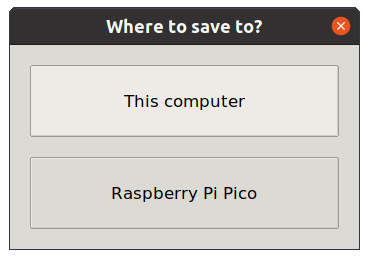
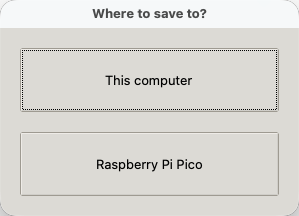
Update LED Firefly setup for Thonny 5

diff --git a/en/step_2.md b/en/step_2.md
@@ -11,115 +11,153 @@ Connect your Raspberry Pi Pico and set up MicroPython.
 
 --- task ---
 
-**Connect** the small end of your USB cable to the Raspberry Pi Pico.
+Connect the small end of your data USB cable to the Raspberry Pi Pico, then open Thonny on your computer.
 
-![An image of a Raspberry Pi Pico connected to the small end of a USB cable.](images/pico-top-plug.png)
+![A Raspberry Pi Pico connected to a micro USB cable.](images/pico-top-plug.png)
+
+--- /task ---
+
+The screenshots show Thonny 5 on macOS. Your window may look slightly different on another operating system.
+
+If your Pico already runs MicroPython and Thonny shows a `>>>` prompt when connected to it, skip the firmware installation and continue to the `picozero` instructions below.
+
+--- task ---
+
+To install MicroPython, unplug the Raspberry Pi Pico from your computer. Hold down the **BOOTSEL** button on the Pico while you plug it back in using a **data** USB cable, then release the button.
+
+The Pico appears as a removable drive. On a Raspberry Pi Pico or Pico W, this drive is called **RPI-RP2**.
 
 --- /task ---
 
 --- task ---
 
-**Connect** the other end to your computer, laptop, or Raspberry Pi.
+In Thonny, click the interpreter selector in the bottom-right corner of the window, then choose **Install MicroPython…**.
 
-![An image of a Raspberry Pi Pico connected to a laptop with a USB cable.](images/plug-in-pico.png)
+![Thonny's interpreter menu showing Install MicroPython and Configure interpreter.](images/thonny-interpreter-menu.png)
 
---- /task ---
-
-
---- task ---
-
-Open the Thonny editor. 
+If **Install MicroPython…** is not listed, check that the Pico is connected in BOOTSEL mode and that your computer can see its removable drive.
 
 --- /task ---
 
 --- task ---
 
-Look at the text in the bottom-right corner of the Thonny editor. It will show you the version of Python that is being used.
+In the **Install or update MicroPython (UF2)** window:
 
-If it does not say "MicroPython (Raspberry Pi Pico)", then click on the text and select "MicroPython (Raspberry Pi Pico)".
++ Select the Pico's drive in **Target volume**.
++ Select **RP2** in **MicroPython family**.
++ Choose the **variant** that matches the model printed on your board. For example, choose **Raspberry Pi · Pico / Pico H** for an original Pico, or **Raspberry Pi · Pico W / Pico WH** for a Pico W.
++ Select the latest stable numbered **version**. Avoid preview versions for this project.
 
-If you have never used MicroPython on your Raspberry Pi Pico, then Thonny will prompt you to add the MicroPython firmware. Click **Install MicroPython**. 
+![Thonny's MicroPython installer with the Pico target volume, firmware family, board variant, and version selected.](images/thonny-install-micropython-pico.png)
+
+Click **Install** and wait for the installation to finish. Keep the Pico connected while the firmware is being written.
 
 --- /task ---
 
 --- task ---
 
-**Debug:** 
+Close the installer when it has finished. The Pico's removable drive disappears as it restarts with MicroPython.
+
+Click the interpreter selector again and choose the **MicroPython (Raspberry Pi Pico)** entry for your connected board. The port name depends on your computer.
+
+If the board is not listed yet, unplug it and reconnect it **without holding BOOTSEL**, then try again. Click the red **Stop/Restart backend** button to reconnect if needed.
+
+The Shell should show a MicroPython message and a `>>>` prompt.
+
+![The Thonny Shell connected to a Raspberry Pi Pico running MicroPython.](images/repl-connected.png)
+
+--- /task ---
+
+--- task ---
+
+**Debug:**
 
 --- collapse ---
 ---
-title: There was an error installing the firmware
+title: The Pico's drive does not appear
 ---
 
-If you see an error message during the install then:
-+ Disconnect your Raspberry Pi Pico
-+ Reconnect your Raspberry Pi Pico
-+ Try to install the firmware again (you might need to press the stop button first)
+Unplug the Pico, then hold **BOOTSEL** while reconnecting it. Release the button after connecting.
 
-![A screenshot of an error message showing that the firmware cannot install correctly.](images/pico-firmware-error.PNG)
+Use a USB cable that can transfer data. A charging-only cable will power the Pico but will not let your computer communicate with it. Try another data cable or USB port.
+
+If macOS asks Thonny for access to removable volumes, allow access so it can find the Pico's drive.
 
 --- /collapse ---
 
 --- collapse ---
 ---
-title: I don't know if the firmware is installed and cannot connect to my Pico
+title: Firmware installation fails
 ---
 
-Make sure your Raspberry Pi Pico is connected to your computer with a micro USB cable. Click on the list in the bottom-right corner of your Thonny window. A pop-up menu will appear, which lists the available interpreters. 
+Check your internet connection: Thonny downloads the available firmware versions and the selected firmware.
 
-![A pop-up menu that shows an option saying configure interpreter.](images/no-pico-interpreter.png) 
-
-If you cannot see the Pico in the list (like in the picture), you will need to reconnect your Raspberry Pi Pico while holding the BOOTSEL button to mount it as a storage volume, and reinstall the firmware by following the instructions in the section above.
+Check that the selected target volume belongs to your Pico and that the variant matches your board. Reconnect the Pico while holding **BOOTSEL**, then try the installation again.
 
 --- /collapse ---
 
 --- collapse ---
 ---
-title: Firmware is installed but I still cannot connect to my Pico
+title: Firmware is installed but Thonny cannot connect
 ---
 
-You may be using the wrong kind of micro USB cable. Your current micro USB cable may be damaged, or designed only to carry power to devices and cannot transfer data. Try swapping your cable if nothing else has worked. 
+Reconnect the Pico **without holding BOOTSEL**. Choose its **MicroPython (Raspberry Pi Pico)** entry in Thonny's interpreter selector, then click **Stop/Restart backend**.
 
-If your Pico still won't connect after trying all these things, it may **itself** be damaged and unable to connect. 
+If needed, choose **Run** > **Configure interpreter…**, select **MicroPython (Raspberry Pi Pico)**, and check the port for your connected board. Close any other program that might be using that port.
+
+Check your data USB cable and try another USB port before reinstalling firmware.
 
 --- /collapse ---
 
-You can find further information in the [Raspberry Pi Pico Guide](https://projects.raspberrypi.org/en/projects/introduction-to-the-pico){:target="_blank"}.
-
 --- /task ---
 
-`picozero` is a MicroPython library for beginners to the Raspberry Pi Pico. 
+`picozero` is a MicroPython library for beginners to the Raspberry Pi Pico.
 
 --- task ---
 
-To complete the projects in this path, you will need to install the `picozero` library as a Thonny package.
+Check that Thonny is connected to your Pico: the interpreter selector at the bottom-right should show **MicroPython (Raspberry Pi Pico)**.
 
-In Thonny, choose **Tools** > **Manage packages**.
+Choose **Tools** > **Manage packages…**. The window title should say **Manage packages for Raspberry Pi Pico**, so the library will be installed on your board.
 
-![The Thonny Tools menu with Manage packages highlighted.](images/thonny-manage-packages.jpg)
-
---- /task ---
-
---- task ---
-
-In the pop-up 'Manage packages for Raspberry Pi Pico' window, type `picozero` and click **Search on PyPi**.
-
-![Thonny plugins search results showing picozero.](images/thonny-packages-picozero.jpg)
+![Thonny's Tools menu showing Manage packages.](images/thonny-manage-packages.png)
 
 --- /task ---
 
 --- task ---
 
-Click on **picozero** in the search results. 
+Type `picozero` in the search box and click **Search micropython-lib and PyPI**.
 
-Click on **Install**.
-
-![The picozero information with 'Install' button highlighted.](images/thonny-install-package.jpg)
-
-When installation has completed, close the package window, then exit and reopen Thonny.
+![Thonny's package manager showing the picozero search result.](images/thonny-packages-picozero.png)
 
 --- /task ---
 
-If you have difficulties installing the `picozero` library in Thonny, you can download the library file and save it to your Raspberry Pi Pico. 
+--- task ---
 
-[[[picozero-offline-install]]]
+Select **picozero @ PyPI** in the search results, then click **Install**. If an older version is already installed, click **Upgrade** instead. If the installed version matches the latest stable version, you can continue.
+
+Wait for the installation to finish. The package information will show the installed version and its location on the Pico, `/lib`.
+
+![Thonny's package manager showing picozero installed on the Raspberry Pi Pico.](images/thonny-picozero-installed.png)
+
+Close the package manager, then click the red **Stop/Restart backend** button in Thonny before running your code.
+
+--- /task ---
+
+If you have difficulties installing the `picozero` library in Thonny, you can download the library file and save it to your Raspberry Pi Pico.
+
+--- collapse ---
+---
+title: Install picozero without the package manager
+---
+
+On a computer with internet access, open the [picozero library file](https://raw.githubusercontent.com/RaspberryPiFoundation/picozero/master/picozero/picozero.py){:target="_blank"} and save it as `picozero.py`. If needed, transfer the file to your programming computer using a USB drive.
+
+Connect the Pico and select its **MicroPython (Raspberry Pi Pico)** interpreter in Thonny.
+
+Choose **File** > **Open…**, then **This computer**, and open the downloaded `picozero.py` file. Choose **File** > **Save as…**, then **Raspberry Pi Pico**. In the Pico's top-level folder, enter `picozero.py` in **File name** and click **OK**.
+
+![Thonny's Save to Raspberry Pi Pico dialog showing the File name box.](images/thonny-save-to-pico.png)
+
+Click **Stop/Restart backend** before running your project code. Keep your own project in a separate file, such as `firefly.py` or `pico_led.py`.
+
+--- /collapse ---

diff --git a/en/step_3.md b/en/step_3.md
@@ -51,17 +51,17 @@ pico_led.on()
 
 --- task ---
 
-Choose **File**->**Save As**. Thonny will ask whether you want to save the file on **This computer** or the **Raspberry Pi Pico**. Choose **This computer** to save your code to your computer.  
+Choose **File** > **Save as…**. Thonny will ask whether you want to save the file on **This computer** or the **Raspberry Pi Pico**. Choose **This computer** to save your code to your computer.
 
 Choose a location on your computer such as your 'Documents' folder. Name your file `firefly.py`.
 
-![A screenshot of a window with two options. The user can either select 'This computer' or 'Raspberry Pi Pico' device. 'This computer' is highlighted.](images/save-on-computer.png)
+![Thonny's save destination dialog with This computer and Raspberry Pi Pico options.](images/save-on-computer.png)
 
 --- /task ---
 
 --- task ---
 
-**Test:** Thonny has a green play button with a small white triangle inside it. Pressing this button allows you to run your code. 
+**Test:** Click the green **Run current script** play button to run your code on the Pico.
 
 + Press the play button  
 
@@ -84,7 +84,7 @@ If you don't see a green play button (it is faded):
 + Click the red **STOP** button
 + Check that your Raspberry Pi Pico is connected to your computer with a USB cable
 + Click on **MicroPython (Raspberry Pi Pico)** at the bottom-right corner of Thonny to reconnect
-+ Unplug your USB cable and then plug it back in
++ Unplug your USB cable and then plug it back in without holding **BOOTSEL**
 
 --- /collapse ---
 
@@ -134,7 +134,7 @@ pico_led.off()
 
 --- task ---
 
-**Test:** Click the green **play** button. Thonny will save the file on your Raspberry Pi Pico and then run the new code. 
+**Test:** Click the green **play** button. Thonny will save changes to the file on your computer and run the code on your Raspberry Pi Pico. This does not save a copy of the file on the Pico.
 
 Check that the LED turns on and then goes off again. The LED will only light for one second so make sure you are watching.
 

diff --git a/en/step_1.md b/en/step_1.md
@@ -67,8 +67,23 @@ You can [prepare your LED](https://projects.raspberrypi.org/en/projects/introduc
 
 + Thonny – this project can be completed using the Thonny Python editor, which can be installed on a Linux, Windows, or Mac computer
 
-[[[thonny-install]]]
+Visit [thonny.org](https://thonny.org/){:target="_blank"} and choose the latest stable download for your operating system. On macOS, choose the installer for your Mac's processor: Apple Silicon (M1, M2, and newer) or Intel. On Linux, follow the installation instructions on the website.
 
-[[[change-theme-thonny]]]
+Run the installer and open Thonny. If you already have Thonny, you can install the latest version to update it.
+
+On Raspberry Pi OS, Thonny may already be installed. Use the system's software updater to update it; the version supplied by your operating system may differ from the website's latest release.
+
+--- collapse ---
+---
+title: Make the text easier to read
+---
+
+Choose **Tools** > **Options…**, then select **Theme & Font**. Adjust the editor and Shell fonts, their sizes, or the colours to suit you. The preview shows how your choices will look.
+
+![Thonny's Theme & Font settings with font, size, and colour choices.](images/thonny-theme-font.png)
+
+Click **OK** when you are finished. Some style changes take effect after restarting Thonny.
+
+--- /collapse ---
 
 ![](http://code.org/api/hour/begin_rp_ledfirefly.png)

diff --git a/en/step_5.md b/en/step_5.md
@@ -19,7 +19,7 @@ Change your code to make the firefly blink on and off in a `while True:` loop. T
 
 Make sure that the code on lines 11–14 are indented. 
 
-**Tip:** In Thonny you can indent code by going to the beginning of the line and tapping the <kbd>Tab</kbd> key — this will insert four spaces. Thonny will automatically indent code based on the previous line when your press <kbd>Enter</kbd> while typing.
+**Tip:** In Thonny you can indent code by going to the beginning of the line and tapping the <kbd>Tab</kbd> key — this will insert four spaces. Thonny will automatically indent code based on the previous line when you press <kbd>Enter</kbd> while typing.
 
 --- code ---
 ---
